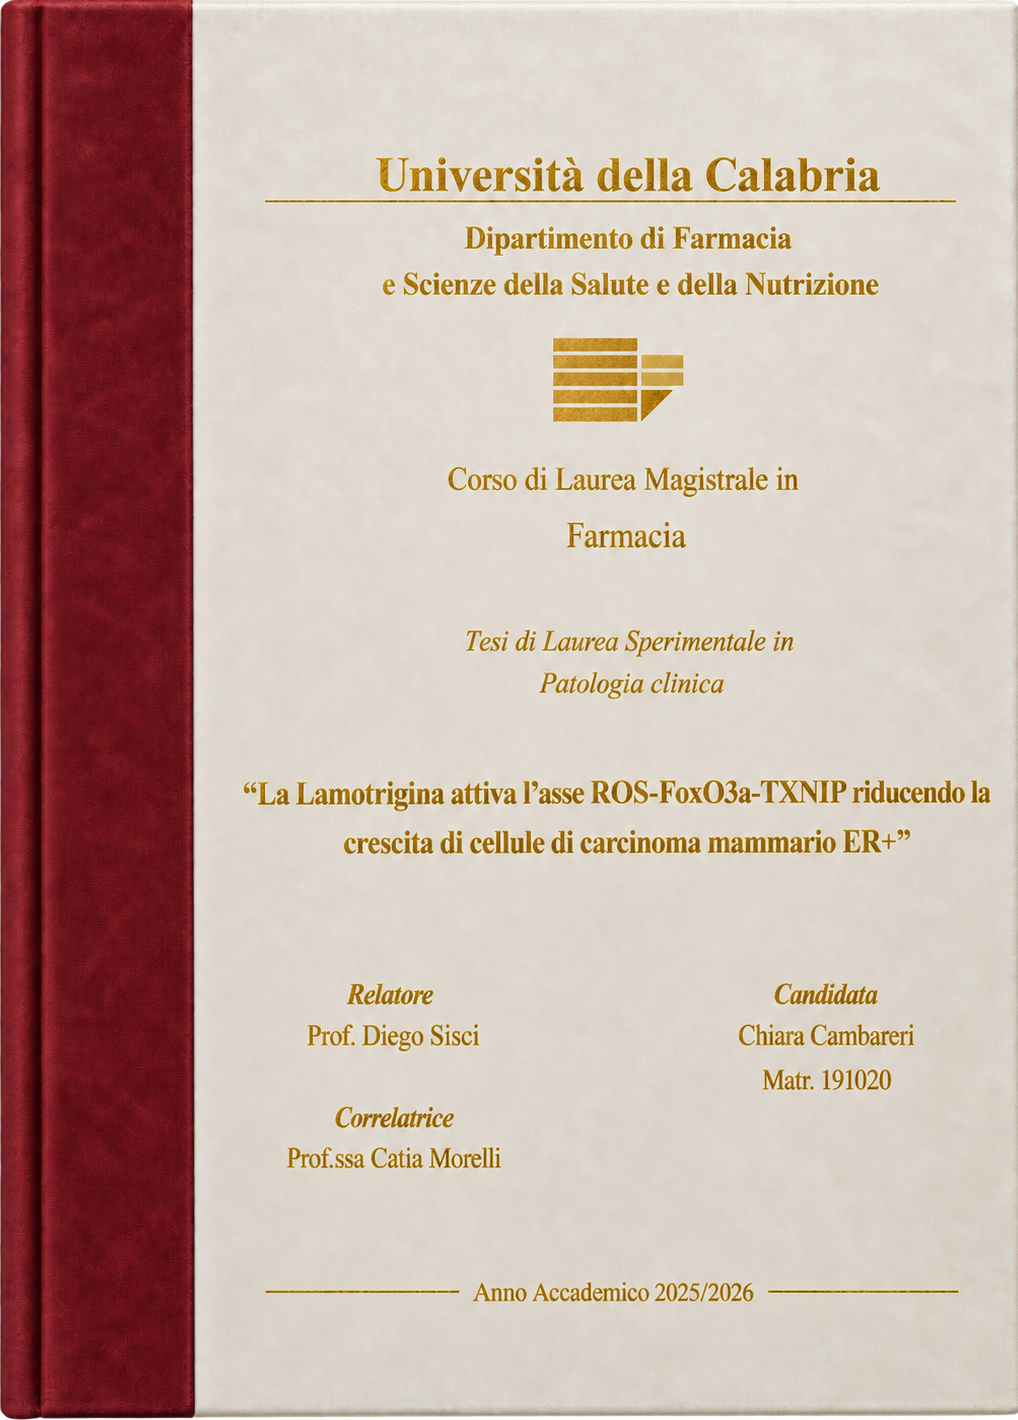
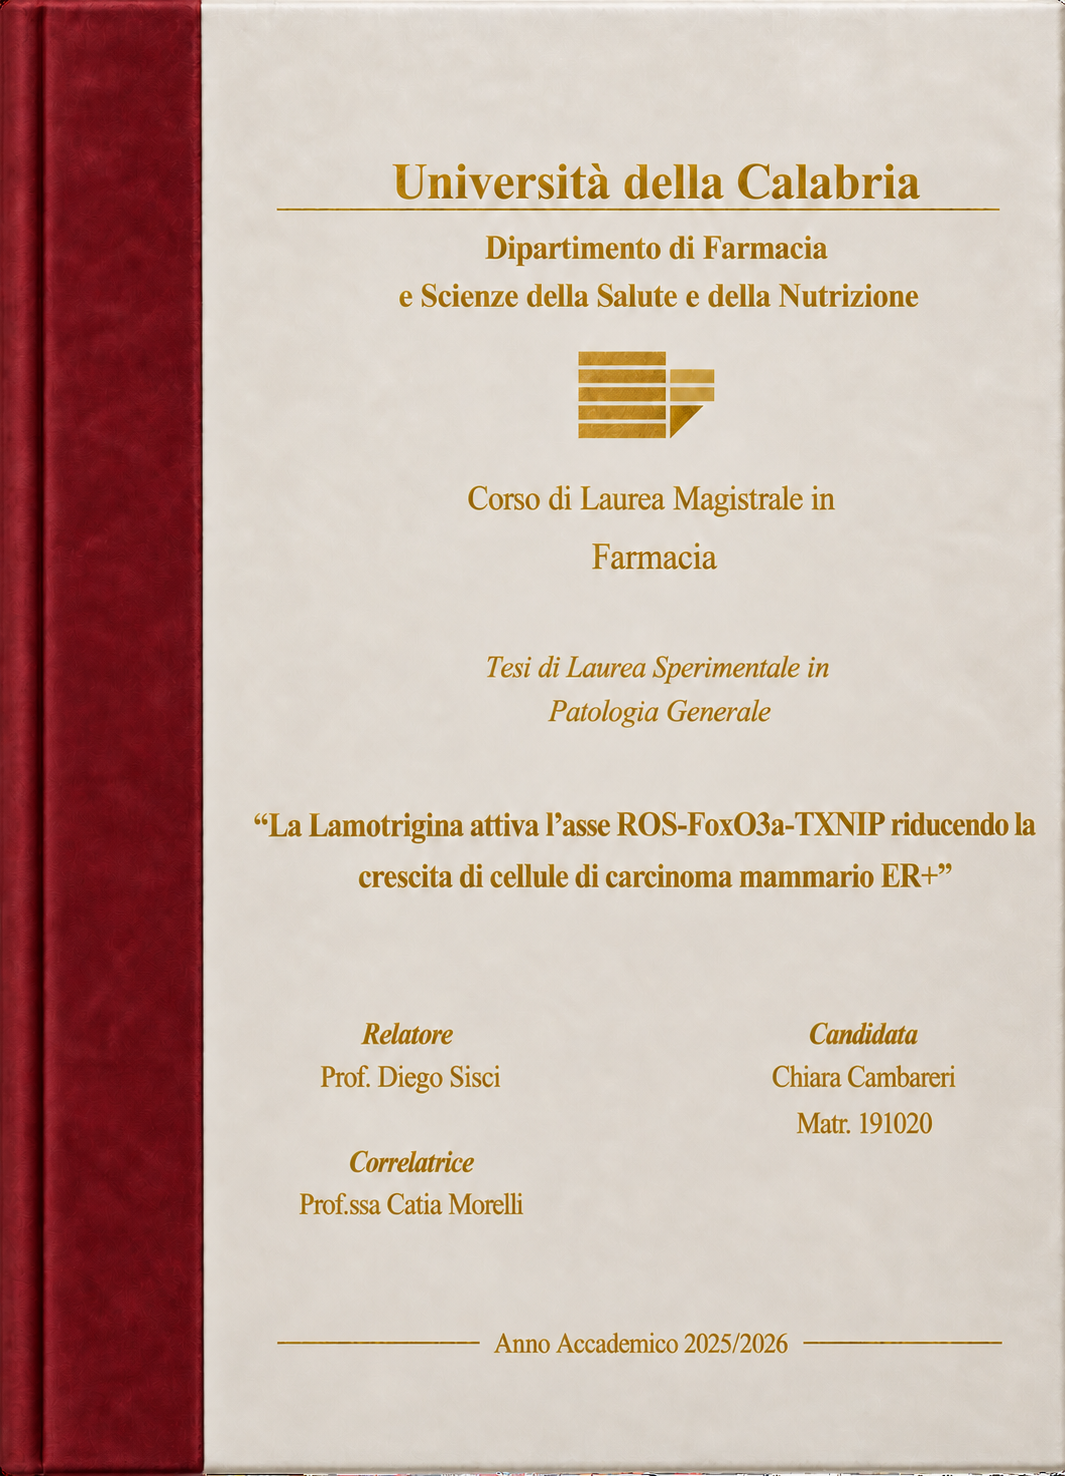
Add files via upload

diff --git a/style.css b/style.css
@@ -1,23 +1,80 @@
-* {
-  box-sizing: border-box;
+:root {
+  --ivory: #f7f2e9;
+  --burgundy: #7c1f2b;
+  --burgundy-dark: #5e1420;
+  --gold: #b68a2a;
+  --gold-soft: #d8bd75;
 }
+
+* { box-sizing: border-box; }
 
 html,
 body {
   margin: 0;
   width: 100%;
-  height: 100%;
-  overflow: hidden;
+  min-height: 100%;
   background: transparent;
 }
 
 body {
-  display: flex;
-  align-items: center;
-  justify-content: center;
+  overflow: hidden;
 }
 
-#viewer {
+/* ---------- MOBILE: copertina + pulsante ---------- */
+.mobile-launcher {
+  width: 100%;
+  min-height: 100vh;
+  padding: 20px 14px 24px;
+  display: flex;
+  flex-direction: column;
+  align-items: center;
+  justify-content: center;
+  gap: 18px;
+  background: transparent;
+}
+
+.mobile-cover {
+  display: block;
+  width: min(78vw, 330px);
+  height: auto;
+  max-height: 72vh;
+  object-fit: contain;
+  border-radius: 2px;
+  box-shadow: 0 14px 30px rgba(46, 26, 18, .20);
+}
+
+.open-book {
+  display: inline-flex;
+  align-items: center;
+  justify-content: center;
+  gap: 10px;
+  min-width: 190px;
+  min-height: 48px;
+  padding: 12px 22px;
+  border: 1px solid rgba(182, 138, 42, .72);
+  border-radius: 999px;
+  background: linear-gradient(180deg, #8c2734, var(--burgundy));
+  color: #fffaf1;
+  text-decoration: none;
+  font-family: Georgia, "Times New Roman", serif;
+  font-size: 17px;
+  letter-spacing: .01em;
+  box-shadow: 0 8px 18px rgba(94, 20, 32, .16);
+}
+
+.open-book:active {
+  transform: translateY(1px);
+}
+
+.open-book span {
+  color: var(--gold-soft);
+  font-family: Arial, Helvetica, sans-serif;
+  font-size: 27px;
+  line-height: 1;
+}
+
+/* ---------- FLIPBOOK ---------- */
+.viewer {
   position: relative;
   width: 100%;
   height: 100vh;
@@ -26,10 +83,11 @@ body {
   justify-content: center;
   overflow: hidden;
   background: transparent;
+  touch-action: none;
 }
 
 #book {
-  filter: drop-shadow(0 18px 28px rgba(0, 0, 0, 0.18));
+  filter: drop-shadow(0 18px 28px rgba(0, 0, 0, .18));
 }
 
 .page {
@@ -38,10 +96,11 @@ body {
 }
 
 .page-inner {
+  position: relative;
   width: 100%;
   height: 100%;
-  background: #fff;
   overflow: hidden;
+  background: #fff;
 }
 
 .page-canvas,
@@ -66,7 +125,7 @@ body {
   display: grid;
   place-items: center;
   background: #fff;
-  color: rgba(0, 0, 0, 0.18);
+  color: rgba(0, 0, 0, .16);
   font-family: Arial, Helvetica, sans-serif;
   font-size: 13px;
 }
@@ -78,8 +137,8 @@ body {
 #loading {
   position: absolute;
   inset: 0;
-  background: transparent;
   pointer-events: none;
+  background: transparent;
   transition: opacity .25s ease;
 }
 
@@ -90,24 +149,38 @@ body {
   left: 50%;
   width: 32px;
   height: 32px;
-  margin-left: -16px;
-  margin-top: -16px;
-  border: 3px solid rgba(182, 138, 42, 0.20);
-  border-top-color: rgba(182, 138, 42, 0.95);
+  margin: -16px 0 0 -16px;
+  border: 3px solid rgba(182, 138, 42, .20);
+  border-top-color: rgba(182, 138, 42, .95);
   border-radius: 50%;
   animation: spin .8s linear infinite;
 }
 
-#loading.hidden {
-  opacity: 0;
-}
+#loading.hidden { opacity: 0; }
 
 @keyframes spin {
   to { transform: rotate(360deg); }
 }
 
+/* Quando il flipbook viene aperto direttamente su telefono */
+body.book-mode {
+  background: var(--ivory);
+}
+
+body.book-mode .viewer {
+  padding: max(8px, env(safe-area-inset-top)) 4px max(8px, env(safe-area-inset-bottom));
+  background:
+    radial-gradient(circle at 50% 20%, rgba(255,255,255,.72), transparent 48%),
+    var(--ivory);
+}
+
 @media (max-width: 760px) {
-  #viewer {
-    height: 100vh;
+  .mobile-launcher {
+    padding-top: 16px;
+    padding-bottom: 18px;
+  }
+
+  body.book-mode #book {
+    filter: drop-shadow(0 10px 20px rgba(0,0,0,.17));
   }
 }

diff --git a/app.js b/app.js
@@ -4,11 +4,35 @@
   const PDF_URL = "tesi.pdf";
   const KEEP_RADIUS = 4;
 
-  pdfjsLib.GlobalWorkerOptions.workerSrc =
-    "https://cdnjs.cloudflare.com/ajax/libs/pdf.js/3.11.174/pdf.worker.min.js";
+  const params = new URLSearchParams(window.location.search);
+  const forceBook = params.get("mode") === "book";
+  const isNarrowScreen = window.matchMedia("(max-width: 760px)").matches;
 
+  const mobileLauncher = document.getElementById("mobile-launcher");
+  const openBook = document.getElementById("open-book");
+  const viewer = document.getElementById("viewer");
   const bookEl = document.getElementById("book");
   const loadingEl = document.getElementById("loading");
+
+  // Costruisce un URL robusto per aprire il flipbook dedicato.
+  const dedicatedUrl = new URL(window.location.href);
+  dedicatedUrl.searchParams.set("mode", "book");
+  openBook.href = dedicatedUrl.toString();
+
+  // Dentro Google Sites su telefono mostriamo solo copertina + pulsante.
+  if (isNarrowScreen && !forceBook) {
+    mobileLauncher.hidden = false;
+    viewer.hidden = true;
+    return;
+  }
+
+  // Desktop oppure apertura dedicata da smartphone: mostra il libro.
+  document.body.classList.add("book-mode");
+  mobileLauncher.hidden = true;
+  viewer.hidden = false;
+
+  pdfjsLib.GlobalWorkerOptions.workerSrc =
+    "https://cdnjs.cloudflare.com/ajax/libs/pdf.js/3.11.174/pdf.worker.min.js";
 
   let pdfDoc = null;
   let pageFlip = null;
@@ -56,10 +80,8 @@
   }
 
   function wantedCssPageWidth() {
-    const viewer = document.getElementById("viewer");
-    const portrait = window.matchMedia("(max-width: 760px)").matches;
-    const visiblePages = portrait ? 1 : 2;
-    const available = Math.max(320, viewer.clientWidth - 40);
+    const visiblePages = window.matchMedia("(max-width: 760px)").matches ? 1 : 2;
+    const available = Math.max(300, viewer.clientWidth - (visiblePages === 1 ? 10 : 40));
     return Math.min(720, available / visiblePages);
   }
 
@@ -94,7 +116,7 @@
 
       el.classList.add("rendered");
     })()
-      .catch(err => console.error(`Errore nel rendering della pagina ${pageNum}:`, err))
+      .catch(err => console.error(`Errore pagina ${pageNum}:`, err))
       .finally(() => renderJobs.delete(pageNum));
 
     renderJobs.set(pageNum, job);
@@ -104,12 +126,12 @@
   function currentPdfPage() {
     if (!pageFlip) return 1;
     const index = pageFlip.getCurrentPageIndex();
+    // indice 0 = cover, indice 1 = pagina PDF 1
     return Math.max(1, Math.min(numPages, index));
   }
 
   function unloadFarPages(centerPage) {
-    const pages = bookEl.querySelectorAll(".pdf-page");
-    pages.forEach(el => {
+    bookEl.querySelectorAll(".pdf-page").forEach(el => {
       const n = Number(el.dataset.page);
       if (Math.abs(n - centerPage) <= KEEP_RADIUS) return;
 
@@ -156,9 +178,9 @@
         width: 595,
         height: 842,
         size: "stretch",
-        minWidth: 300,
+        minWidth: 280,
         maxWidth: 720,
-        minHeight: 425,
+        minHeight: 397,
         maxHeight: 1020,
         showCover: true,
         usePortrait: true,

diff --git a/index.html b/index.html
@@ -3,16 +3,28 @@
 <head>
   <meta charset="utf-8">
   <meta name="viewport" content="width=device-width, initial-scale=1, viewport-fit=cover">
+  <meta name="theme-color" content="#f7f2e9">
   <title>Tesi Chiara Cambareri</title>
   <link rel="stylesheet" href="style.css">
   <script src="https://cdnjs.cloudflare.com/ajax/libs/pdf.js/3.11.174/pdf.min.js"></script>
   <script src="https://cdn.jsdelivr.net/npm/page-flip@2.0.7/dist/js/page-flip.browser.min.js"></script>
 </head>
 <body>
-  <main id="viewer">
+  <!-- Vista mobile incorporata in Google Sites -->
+  <main id="mobile-launcher" class="mobile-launcher" hidden>
+    <img class="mobile-cover" src="cover.png" alt="Copertina della tesi di Chiara Cambareri">
+    <a id="open-book" class="open-book" href="?mode=book" target="_blank" rel="noopener">
+      Sfoglia la tesi
+      <span aria-hidden="true">›</span>
+    </a>
+  </main>
+
+  <!-- Flipbook vero e proprio: desktop o apertura dedicata da smartphone -->
+  <main id="viewer" class="viewer" hidden>
     <div id="book"></div>
     <div id="loading" aria-hidden="true"></div>
   </main>
+
   <script src="app.js"></script>
 </body>
 </html>
